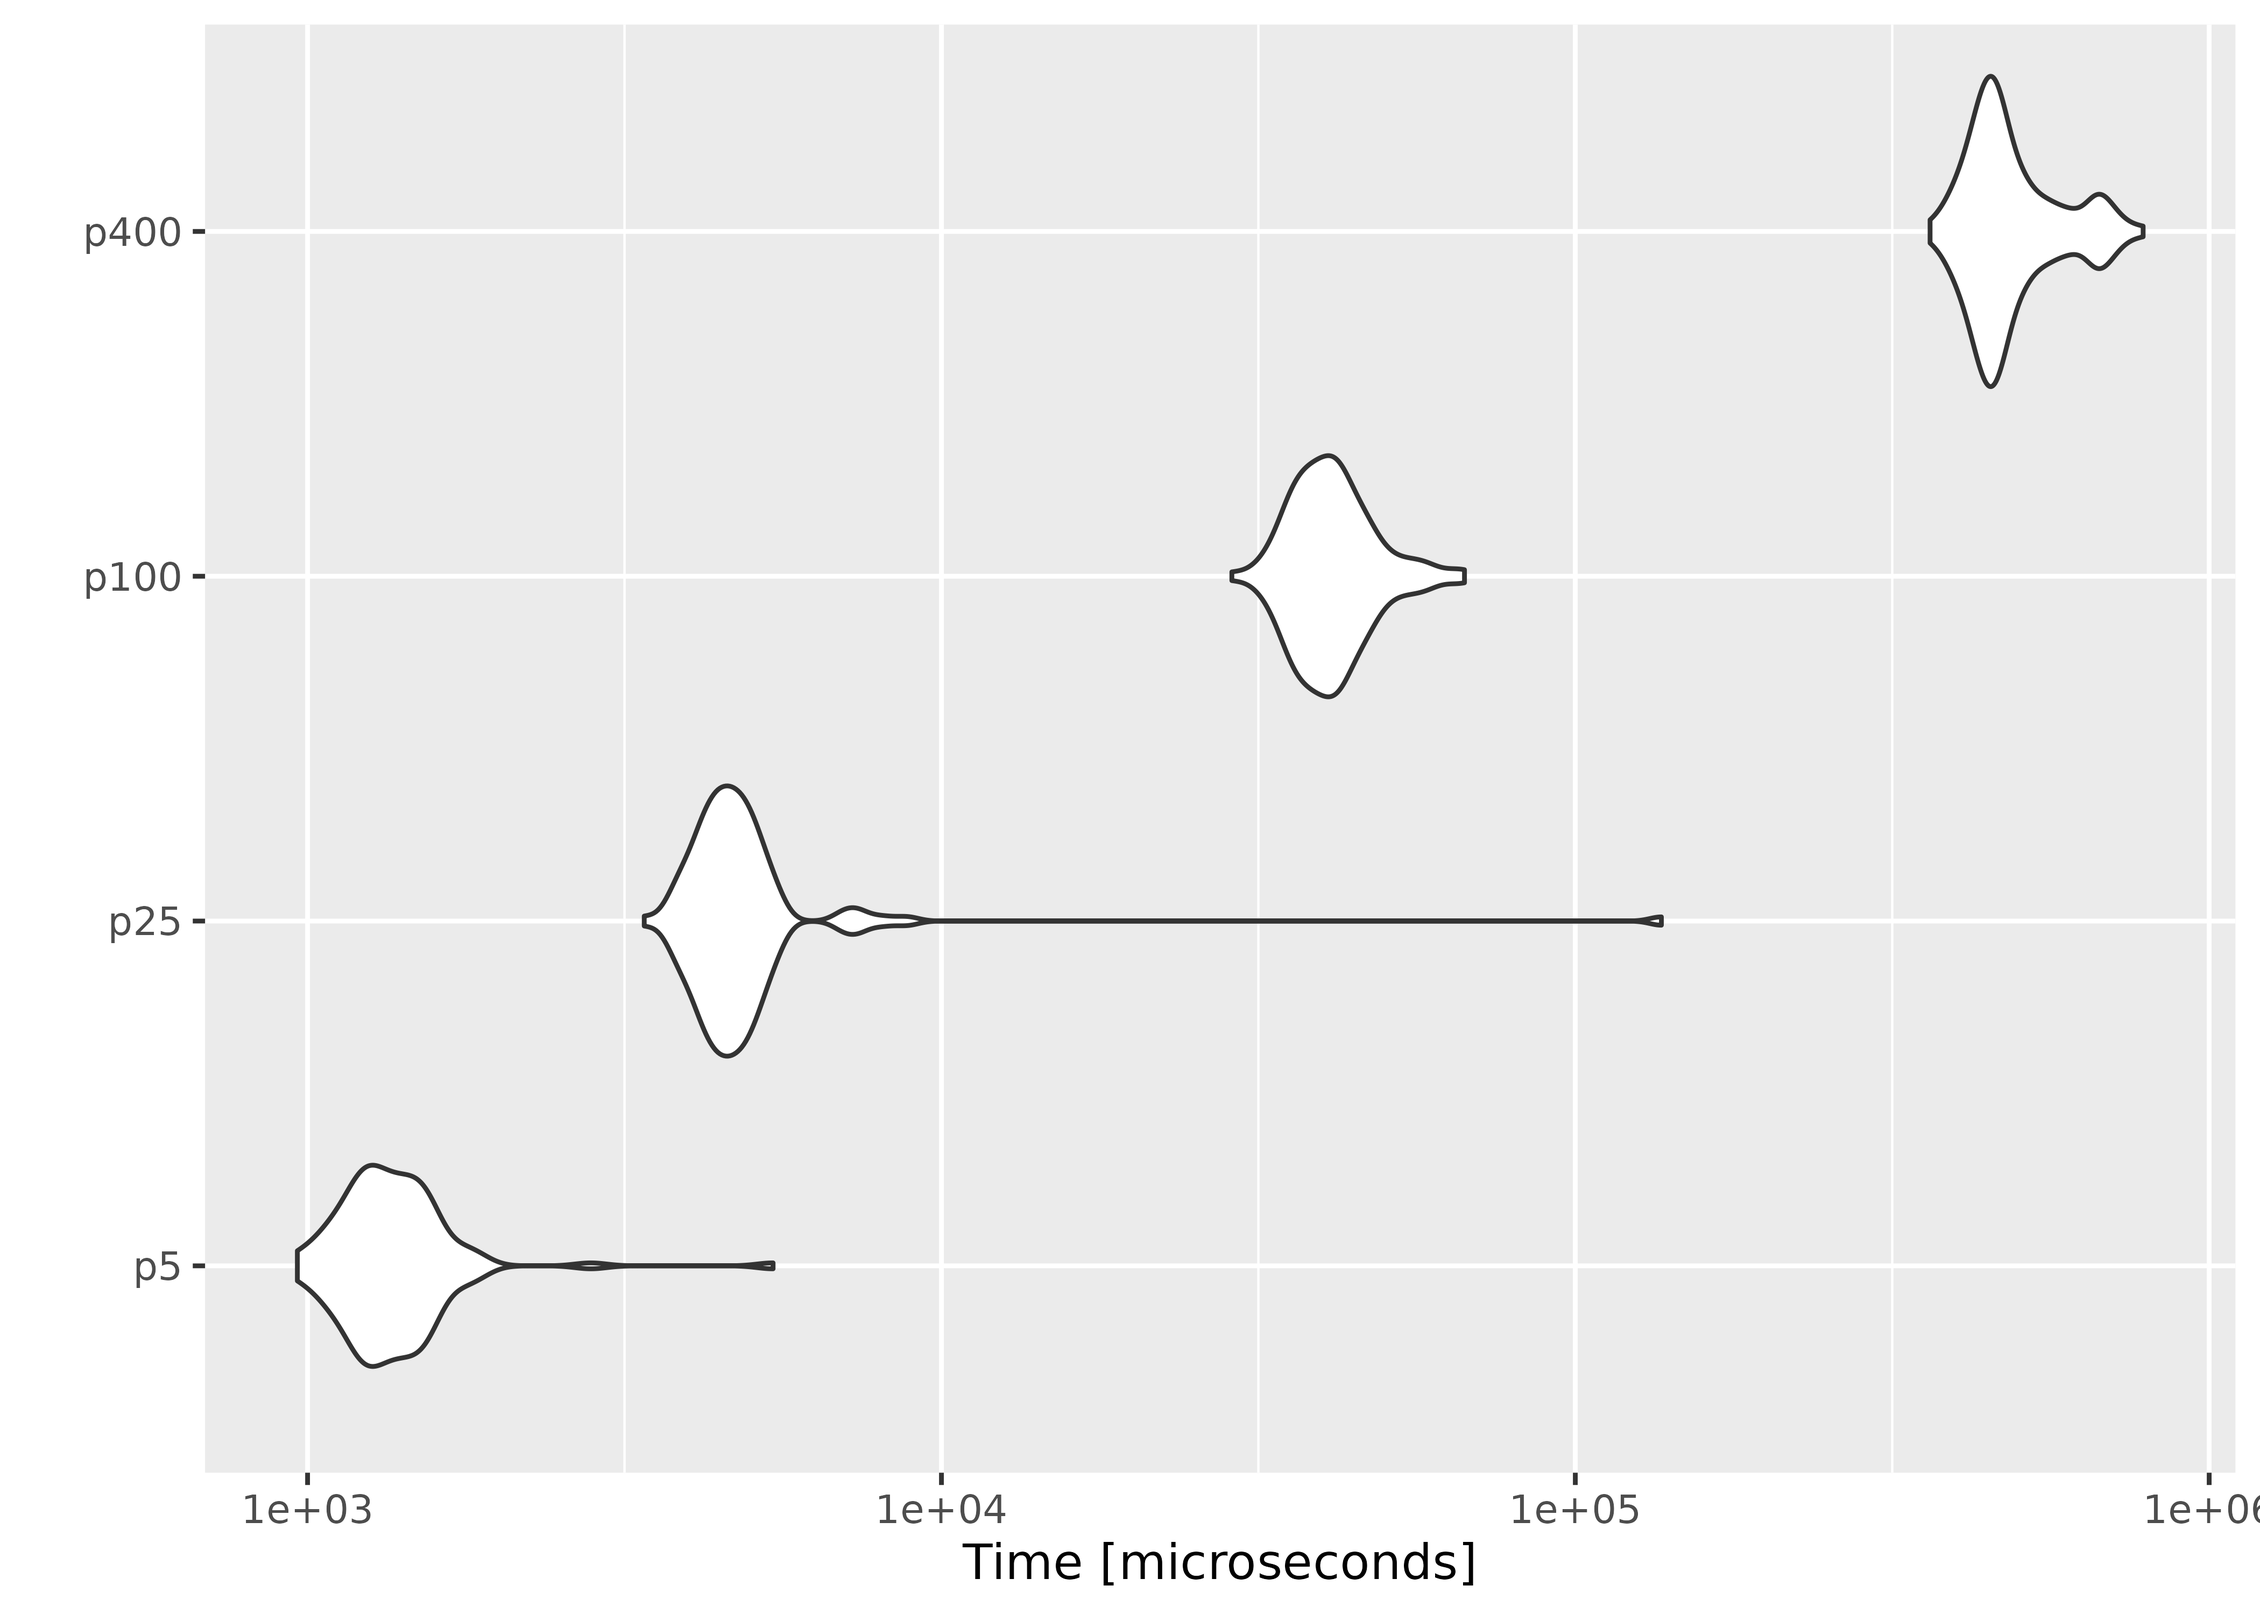
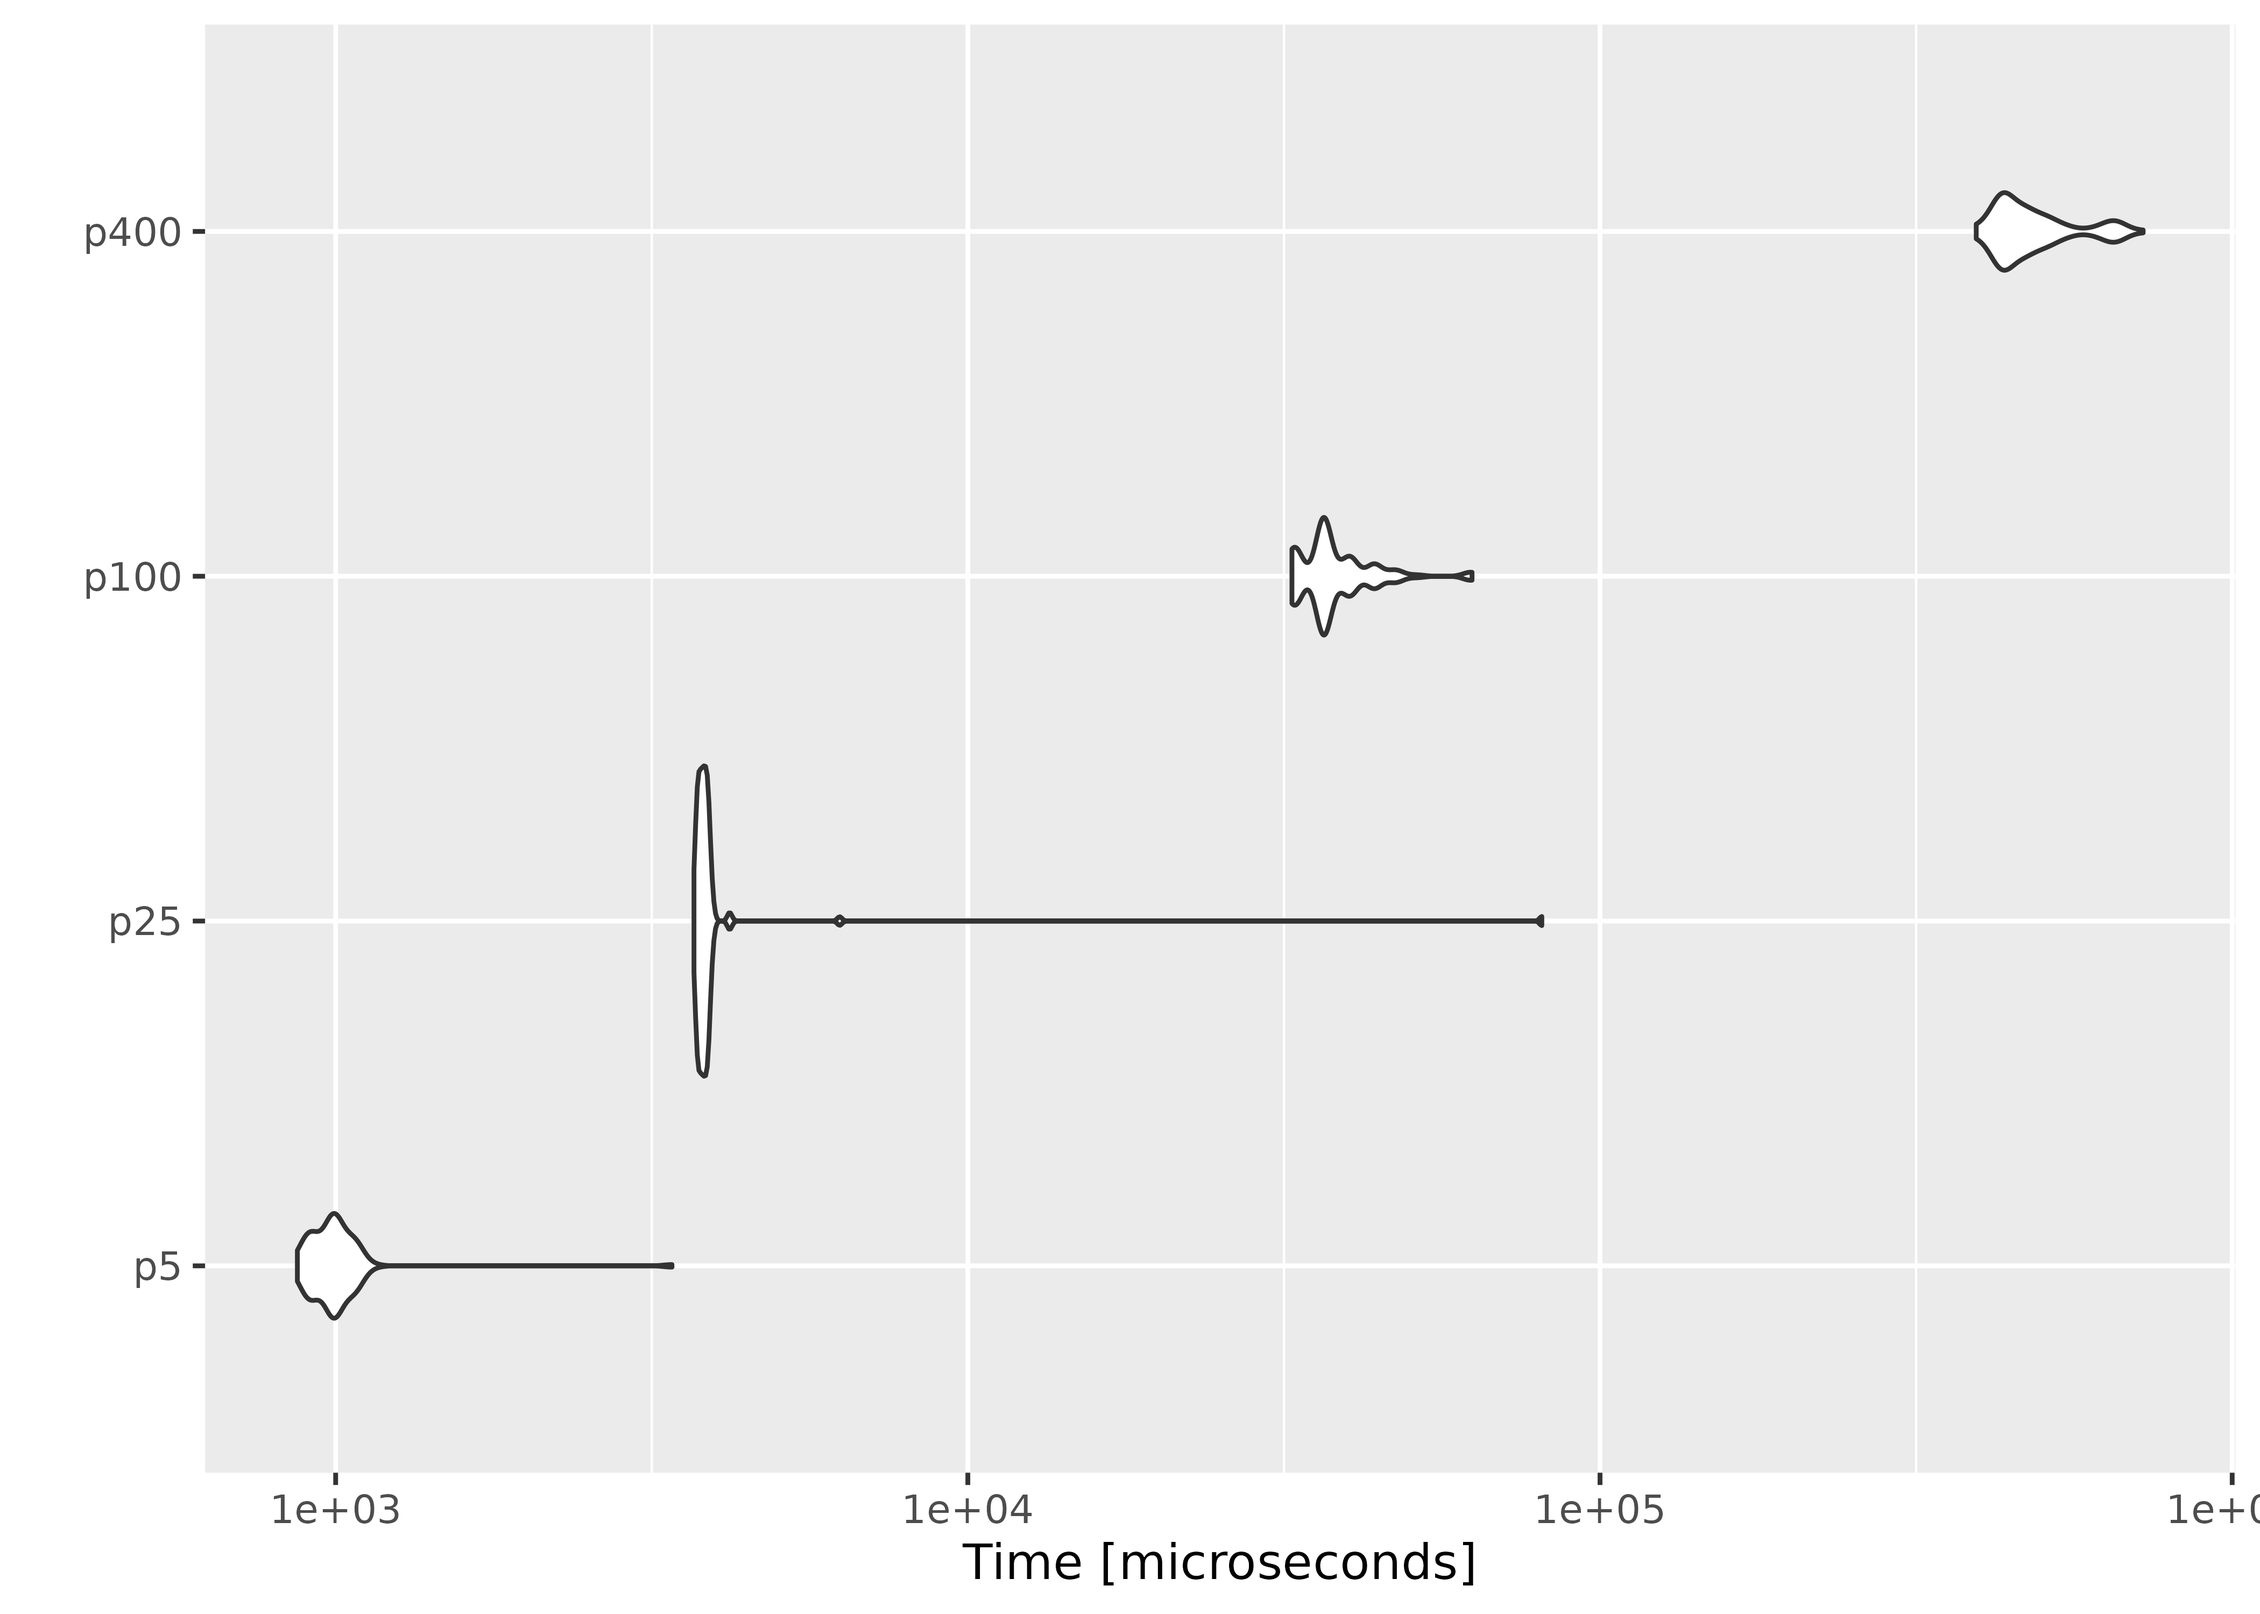
Deploying to gh-pages from @ ropensci/melt@b3b3d3d0cf0c840a6bd528c8a65cda0fa77ffe0e 🚀

diff --git a/articles/performance.html b/articles/performance.html
@@ -127,11 +127,11 @@
 <div class="sourceCode" id="cb3"><pre class="downlit sourceCode r">
 <code class="sourceCode R"><span><span class="va">result</span></span>
 <span><span class="co">#&gt; Unit: microseconds</span></span>
-<span><span class="co">#&gt;  expr      min        lq       mean    median       uq      max neval</span></span>
-<span><span class="co">#&gt;  n1e2    667.2    797.15    903.449    871.30    965.8   1530.6   100</span></span>
-<span><span class="co">#&gt;  n1e3   1653.3   2054.75   2373.616   2345.45   2580.2   3483.5   100</span></span>
-<span><span class="co">#&gt;  n1e4  15888.5  20354.90  23946.697  24575.65  27089.2  32866.7   100</span></span>
-<span><span class="co">#&gt;  n1e5 284639.2 370906.95 433835.026 419430.35 504211.8 617770.1   100</span></span>
+<span><span class="co">#&gt;  expr      min        lq       mean    median        uq      max neval</span></span>
+<span><span class="co">#&gt;  n1e2    530.6    560.30    604.811    598.70    650.25    766.3   100</span></span>
+<span><span class="co">#&gt;  n1e3   1556.5   1713.35   1903.886   1876.05   2012.05   2433.2   100</span></span>
+<span><span class="co">#&gt;  n1e4  14412.2  15864.95  19221.815  19620.60  21729.05  25061.3   100</span></span>
+<span><span class="co">#&gt;  n1e5 269190.6 322253.80 371361.876 350309.05 417762.75 505703.5   100</span></span>
 <span><span class="fu"><a href="https://ggplot2.tidyverse.org/reference/autoplot.html" class="external-link">autoplot</a></span><span class="op">(</span><span class="va">result</span><span class="op">)</span></span></code></pre></div>
 <p><img src="performance_files/figure-html/unnamed-chunk-3-1.png" width="100%" style="display: block; margin: auto;"></p>
 </div>
@@ -162,11 +162,11 @@
 <div class="sourceCode" id="cb5"><pre class="downlit sourceCode r">
 <code class="sourceCode R"><span><span class="va">result2</span></span>
 <span><span class="co">#&gt; Unit: microseconds</span></span>
-<span><span class="co">#&gt;  expr      min        lq       mean    median        uq      max neval</span></span>
-<span><span class="co">#&gt;    p5    963.6   1209.85   1400.231   1330.85   1504.75   5425.2   100</span></span>
-<span><span class="co">#&gt;   p25   3397.2   4291.45   6091.623   4615.20   5021.60 136710.1   100</span></span>
-<span><span class="co">#&gt;  p100  28719.1  36891.55  41821.685  40806.80  44508.70  66859.6   100</span></span>
-<span><span class="co">#&gt;  p400 362809.9 436256.40 493462.869 464010.20 517308.80 786704.2   100</span></span>
+<span><span class="co">#&gt;  expr      min       lq       mean    median       uq      max neval</span></span>
+<span><span class="co">#&gt;    p5    869.8    923.5   1009.478    988.70   1032.0   3404.0   100</span></span>
+<span><span class="co">#&gt;   p25   3688.1   3758.7   4614.110   3814.30   3871.1  80897.9   100</span></span>
+<span><span class="co">#&gt;  p100  32559.6  36327.7  38457.731  36636.55  40307.2  62740.4   100</span></span>
+<span><span class="co">#&gt;  p400 393641.0 432522.4 487776.345 468549.15 507283.9 722991.0   100</span></span>
 <span><span class="fu"><a href="https://ggplot2.tidyverse.org/reference/autoplot.html" class="external-link">autoplot</a></span><span class="op">(</span><span class="va">result2</span><span class="op">)</span></span></code></pre></div>
 <p><img src="performance_files/figure-html/unnamed-chunk-5-1.png" width="100%" style="display: block; margin: auto;"> On average, evaluating empirical likelihood with a 100000×10 or 1000×400 matrix at a parameter value satisfying the convex hull constraint takes less than a second.</p>
 </div>
